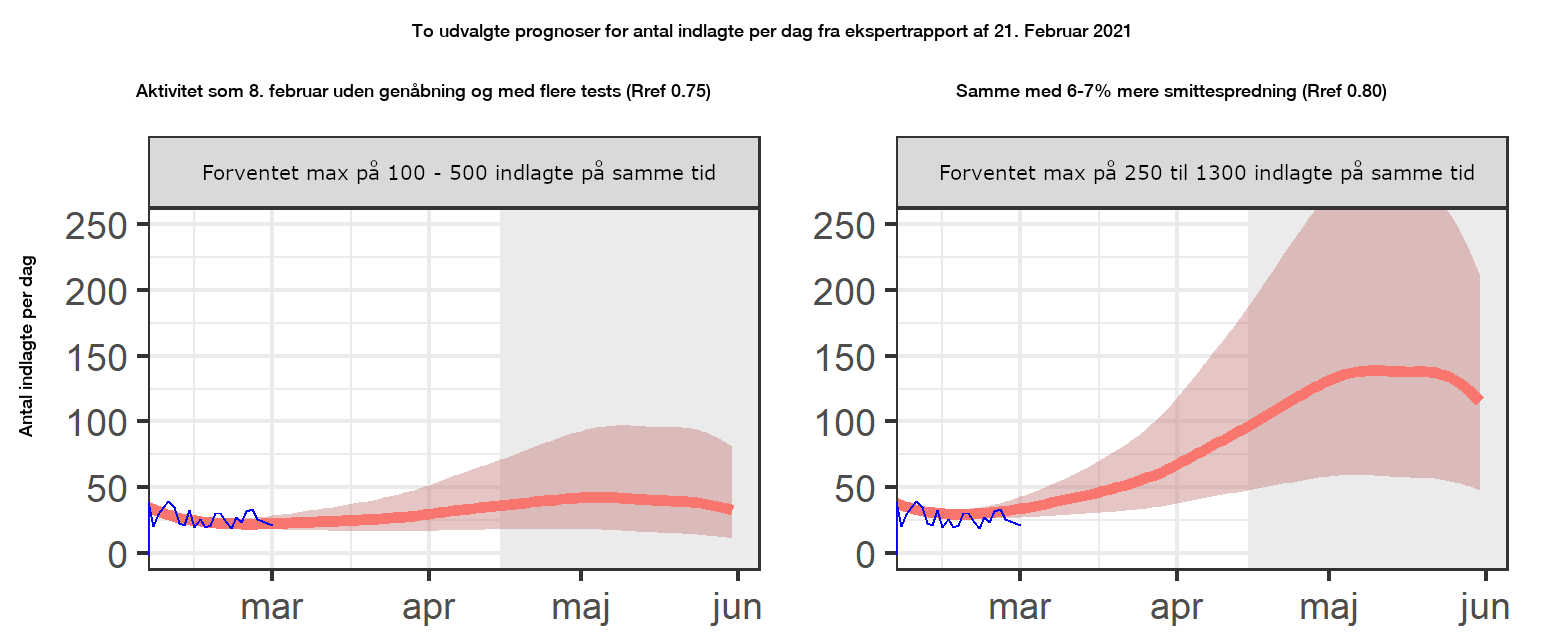
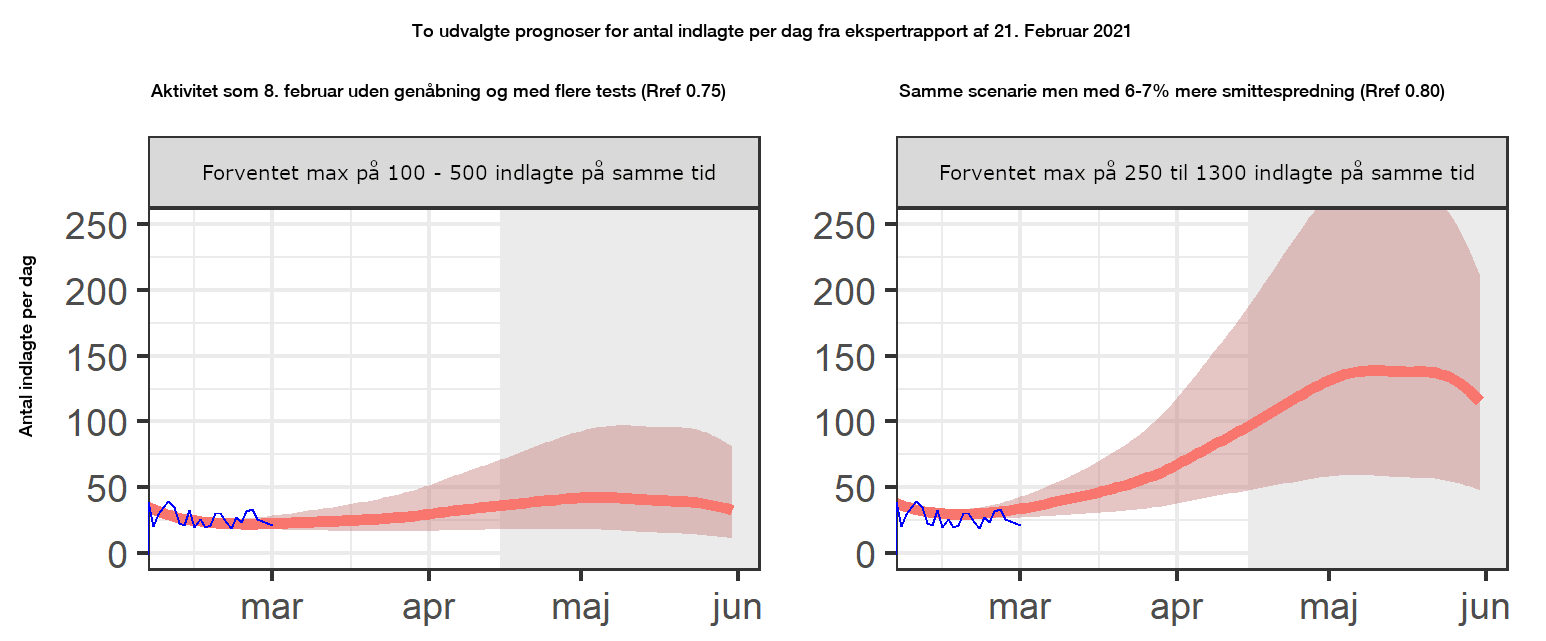
Fixes to text

Changed region(s): [[0.0931, 0.1248, 0.4657, 0.156], [0.5899, 0.1248, 0.9314, 0.156]]

diff --git a/py/overlay.py b/py/overlay.py
@@ -4,11 +4,11 @@ main_title = 'To udvalgte prognoser for antal indlagte per dag fra ekspertrappor
 
 days = 122  # [8 Feb; 1 June[
 
-title1 = 'Aktivitet som 8. februar uden genåbning og med flere tests (Rref 0.75)'
+title1 = '      Aktivitet som 8. februar uden genåbning og med flere tests (Rref 0.75)'
 data = lib.Prediction('reports/20210221/page19-000-fixed.png', x_size=days, y_size=250)
 img1 = [data.process(158, 445)]
 
-title2 = 'Samme med 6-7% mere smittespredning (Rref 0.80)'
+title2 = 'Samme scenarie men med 6-7% mere smittespredning (Rref 0.80)'
 data = lib.Prediction('reports/20210221/page20-000-fixed.png', x_size=days, y_size=250)
 img2 = [data.process(158, 445)]
 
